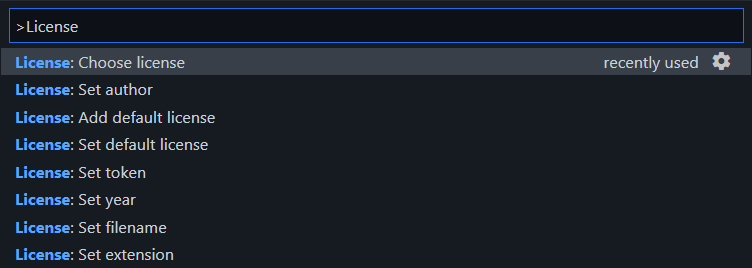
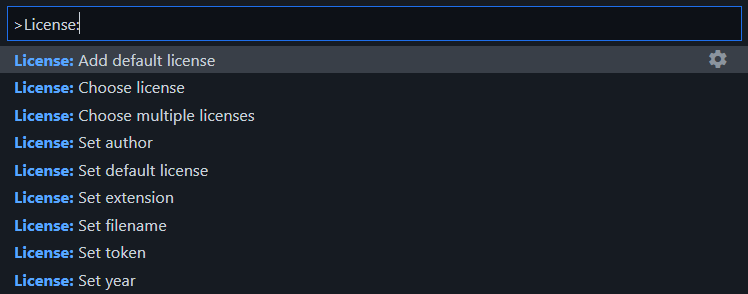
Feat: multiple licenses (#553)
* added ability to choose multiple licenses

* fix test

* use filename setting for multiple licenses

* add new command to doc

Changed region(s): [[0.0, 0.0, 1.0, 0.8955], [0.0, 0.9254, 0.246, 0.9851]]

diff --git a/src/commands/index.ts b/src/commands/index.ts
@@ -14,14 +14,14 @@ import {
 } from "../config";
 import { getLicenses, getLicense } from "../api";
 import { replaceAuthor, replaceYear } from "../utils";
-import { Licenses, License } from "../types";
+import { LicenseItem, License } from "../types";
 
 /**
  * Uncommon licenses.
  * They not seen at `/licenses`, but accessible at `/licenses/<key>`.
  */
 /* eslint-disable @typescript-eslint/naming-convention */
-export const uncommonLicenses: Licenses = [
+export const uncommonLicenses: LicenseItem[] = [
   {
     key: "cc-by-4.0",
     name: "Creative Commons Attribution 4.0 International",
@@ -48,24 +48,19 @@ export const uncommonLicenses: Licenses = [
   },
 ];
 
-const licenseToQuickPickItem = (
-  l: {
-    key: string;
-    name: string;
-    spdx_id: string | null;
-    url: string | null;
-    node_id: string;
-    html_url?: string | undefined;
-  },
-  defaultKey: string
-): {
+interface QuickPickLicenseItem {
   label: string;
-  detail?: string;
-  description?: string;
+  detail?: string | undefined;
+  description?: string | undefined;
   key: string;
-  alwaysShow?: boolean;
-  kind?: vscode.QuickPickItemKind;
-} => {
+  alwaysShow?: boolean | undefined;
+  kind?: vscode.QuickPickItemKind | undefined;
+}
+
+const licenseToQuickPickItem = (
+  l: LicenseItem,
+  defaultKey: string
+): QuickPickLicenseItem => {
   return l.key === defaultKey
     ? {
         label: l.spdx_id ? l.spdx_id : l.key,
@@ -82,37 +77,47 @@ const licenseToQuickPickItem = (
 };
 /* eslint-enable @typescript-eslint/naming-convention */
 
+const showLicenses = async (
+  options?: vscode.QuickPickOptions
+): Promise<QuickPickLicenseItem | QuickPickLicenseItem[] | undefined> => {
+  const licenses = await getLicenses();
+
+  const defaultKey: string =
+    vscode.workspace.getConfiguration("license").get("default") ?? "";
+
+  const selected = await vscode.window.showQuickPick(
+    licenses
+      .map((l) => licenseToQuickPickItem(l, defaultKey))
+      .concat([
+        {
+          label: "Uncommon licenses",
+          key: "separator",
+          kind: vscode.QuickPickItemKind.Separator,
+        },
+      ])
+      .concat(
+        uncommonLicenses.map((l) => licenseToQuickPickItem(l, defaultKey))
+      ),
+    options
+  );
+
+  return selected;
+};
+
 export const chooseLicense = vscode.commands.registerCommand(
   "license.chooseLicense",
   async () => {
     try {
-      const licenses = await getLicenses();
+      const selected = await showLicenses({
+        placeHolder: "Choose a license to create.",
+      });
 
-      const defaultKey: string =
-        vscode.workspace.getConfiguration("license").get("default") ?? "";
-
-      const selected = await vscode.window.showQuickPick(
-        licenses
-          .map((l) => licenseToQuickPickItem(l, defaultKey))
-          .concat([
-            {
-              label: "Uncommon licenses",
-              key: "separator",
-              kind: vscode.QuickPickItemKind.Separator,
-            },
-          ])
-          .concat(
-            uncommonLicenses.map((l) => licenseToQuickPickItem(l, defaultKey))
-          ),
-        { placeHolder: "Choose a license to create." }
-      );
-
-      if (selected) {
+      if (selected && !Array.isArray(selected)) {
         const key = selected.key;
 
         try {
           const license = await getLicense(key);
-          await addLicense(license);
+          await addLicense(license, false);
         } catch (error) {
           vscode.window.showErrorMessage((error as RequestError).message);
         }
@@ -132,9 +137,37 @@ export const addDefaultLicense = vscode.commands.registerCommand(
 
       if (key !== "") {
         const license = await getLicense(key);
-        await addLicense(license);
+        await addLicense(license, false);
       } else {
         vscode.window.showErrorMessage("No default license provided");
+      }
+    } catch (error) {
+      vscode.window.showErrorMessage((error as RequestError).message);
+    }
+  }
+);
+
+export const chooseMultipleLicenses = vscode.commands.registerCommand(
+  "license.chooseMultipleLicenses",
+  async () => {
+    try {
+      const selected = await showLicenses({
+        placeHolder: "Choose multiple licenses to create.",
+        canPickMany: true,
+      });
+
+      if (selected && Array.isArray(selected)) {
+        const len = selected.length;
+        for (let i = 0; i < len; i++) {
+          const key = selected[i].key;
+
+          try {
+            const license = await getLicense(key);
+            await addLicense(license, true);
+          } catch (error) {
+            vscode.window.showErrorMessage((error as RequestError).message);
+          }
+        }
       }
     } catch (error) {
       vscode.window.showErrorMessage((error as RequestError).message);
@@ -146,23 +179,11 @@ export const setDefaultLicense = vscode.commands.registerCommand(
   "license.setDefaultLicense",
   async () => {
     try {
-      const licenses = await getLicenses();
+      const selected = await showLicenses({
+        placeHolder: "Set default license to use.",
+      });
 
-      const selected = await vscode.window.showQuickPick(
-        licenses
-          .map((l) => licenseToQuickPickItem(l, ""))
-          .concat([
-            {
-              label: "Uncommon licenses",
-              key: "separator",
-              kind: vscode.QuickPickItemKind.Separator,
-            },
-          ])
-          .concat(uncommonLicenses.map((l) => licenseToQuickPickItem(l, ""))),
-        { placeHolder: "Set default license to use." }
-      );
-
-      if (selected) {
+      if (selected && !Array.isArray(selected)) {
         await setDefaultLicenseProperty(selected.key);
       }
     } catch (error) {
@@ -196,7 +217,7 @@ export const setToken = vscode.commands.registerCommand(
   setTokenProperty
 );
 
-const addLicense = async (license: License) => {
+const addLicense = async (license: License, multiple: boolean) => {
   const folder = await chooseFolder();
   if (folder) {
     const author: string =
@@ -223,7 +244,12 @@ const addLicense = async (license: License) => {
     const filename: string =
       vscode.workspace.getConfiguration("license").get("filename") ?? "LICENSE";
 
-    const licensePath = path.join(folder.uri.fsPath, `${filename}${extension}`);
+    const licensePath = path.join(
+      folder.uri.fsPath,
+      `${filename}${
+        multiple ? `-${license.spdx_id?.toUpperCase()}` : ""
+      }${extension}`
+    );
 
     if (fs.existsSync(licensePath)) {
       const answer = await vscode.window.showInformationMessage(

diff --git a/src/types/index.ts b/src/types/index.ts
@@ -1,14 +1,22 @@
 /* eslint-disable @typescript-eslint/naming-convention */
-export type Licenses = {
-  key: string;
-  name: string;
-  url: string | null;
-  spdx_id: string | null;
-  node_id: string;
-  html_url?: string | undefined;
-}[];
 
-export type License = {
+type Optional<T, K extends keyof T> = Pick<Partial<T>, K> & Omit<T, K>;
+
+export type LicenseItem = Optional<
+  Omit<
+    License,
+    | "description"
+    | "implementation"
+    | "permissions"
+    | "conditions"
+    | "limitations"
+    | "body"
+    | "featured"
+  >,
+  "html_url"
+>;
+
+export interface License {
   key: string;
   name: string;
   spdx_id: string | null;
@@ -22,4 +30,4 @@ export type License = {
   limitations: string[];
   body: string;
   featured: boolean;
-};
+}

diff --git a/src/api/index.ts b/src/api/index.ts
@@ -1,13 +1,13 @@
 import { workspace } from "vscode";
 import { Octokit } from "@octokit/rest";
 
-import { Licenses, License } from "../types";
+import { LicenseItem, License } from "../types";
 
 const octokit = new Octokit({
   auth: workspace.getConfiguration("license").get<string>("token"),
 });
 
-export const getLicenses = async (): Promise<Licenses> => {
+export const getLicenses = async (): Promise<LicenseItem[]> => {
   const resp = await octokit.rest.licenses.getAllCommonlyUsed();
   return resp.data;
 };

diff --git a/src/extension.ts b/src/extension.ts
@@ -3,6 +3,7 @@ import * as vscode from "vscode";
 import {
   chooseLicense,
   addDefaultLicense,
+  chooseMultipleLicenses,
   setDefaultLicense,
   setAuthor,
   setYear,
@@ -16,6 +17,7 @@ export async function activate({
 }: vscode.ExtensionContext): Promise<void> {
   subscriptions.push(chooseLicense);
   subscriptions.push(addDefaultLicense);
+  subscriptions.push(chooseMultipleLicenses);
   subscriptions.push(setDefaultLicense);
   subscriptions.push(setAuthor);
   subscriptions.push(setYear);

diff --git a/src/test/suite/github.test.ts b/src/test/suite/github.test.ts
@@ -1,12 +1,12 @@
 import * as assert from "assert";
 
 import { uncommonLicenses } from "../../commands";
-import { Licenses } from "../../types";
+import { LicenseItem } from "../../types";
 import { getLicenses, getLicense } from "../../api";
 import { replaceAuthor, replaceYear } from "../../utils";
 
 describe("GitHub API and utils", () => {
-  let licenses: Licenses;
+  let licenses: LicenseItem[];
 
   before(async () => {
     licenses = await getLicenses();

diff --git a/README.md b/README.md
@@ -20,16 +20,17 @@ Press `Ctrl+Shift+P` (Windows) or `Cmd+Shift+P` (Mac) to open the command palett
 
 _Theme: [GitHub Dark Default](https://marketplace.visualstudio.com/items?itemName=GitHub.github-vscode-theme)_
 
-| Command             | Description                           |
-| ------------------- | ------------------------------------- |
-| Choose license      | Choose a license to create.           |
-| Add default license | Add default license to repository.    |
-| Set default license | Set default license to use.           |
-| Set author          | Set author for licenses.              |
-| Set year            | Set year for licenses.                |
-| Set extension       | Set extension for license files.      |
-| Set filename        | Set filename for license files.       |
-| Set token           | Set token for GitHub REST API access. |
+| Command                  | Description                           |
+| ------------------------ | ------------------------------------- |
+| Choose license           | Choose a license to create.           |
+| Add default license      | Add default license to repository.    |
+| Choose multiple licenses | Add multiple licenses.                |
+| Set default license      | Set default license to use.           |
+| Set author               | Set author for licenses.              |
+| Set year                 | Set year for licenses.                |
+| Set extension            | Set extension for license files.      |
+| Set filename             | Set filename for license files.       |
+| Set token                | Set token for GitHub REST API access. |
 
 ## About access token
 

diff --git a/CHANGELOG.md b/CHANGELOG.md
@@ -7,6 +7,10 @@ and this project adheres to [Semantic Versioning](https://semver.org/spec/v2.0.0
 
 ## [Unreleased]
 
+### Added
+
+- Added ability to choose multiple licenses. Files named in form `<filename>-<SPDX_ID><extension>`.
+
 ## [0.8.0] - 2022-07-20
 
 ### Added
